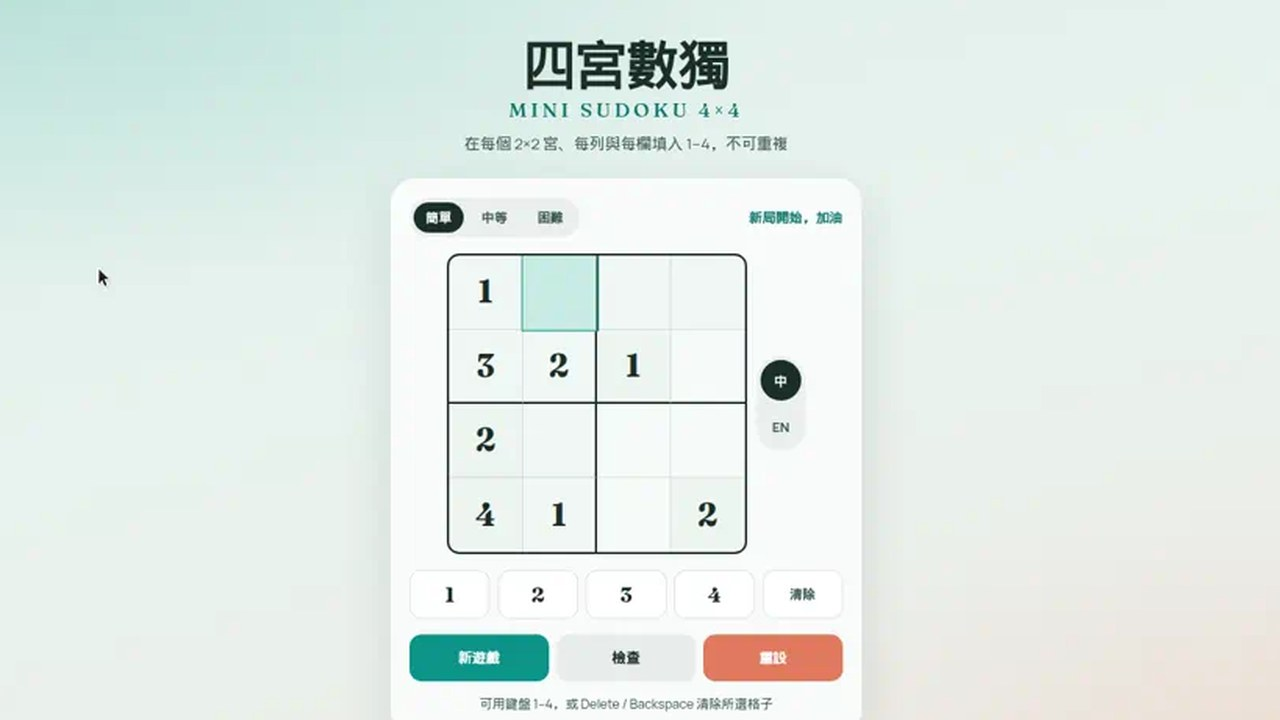
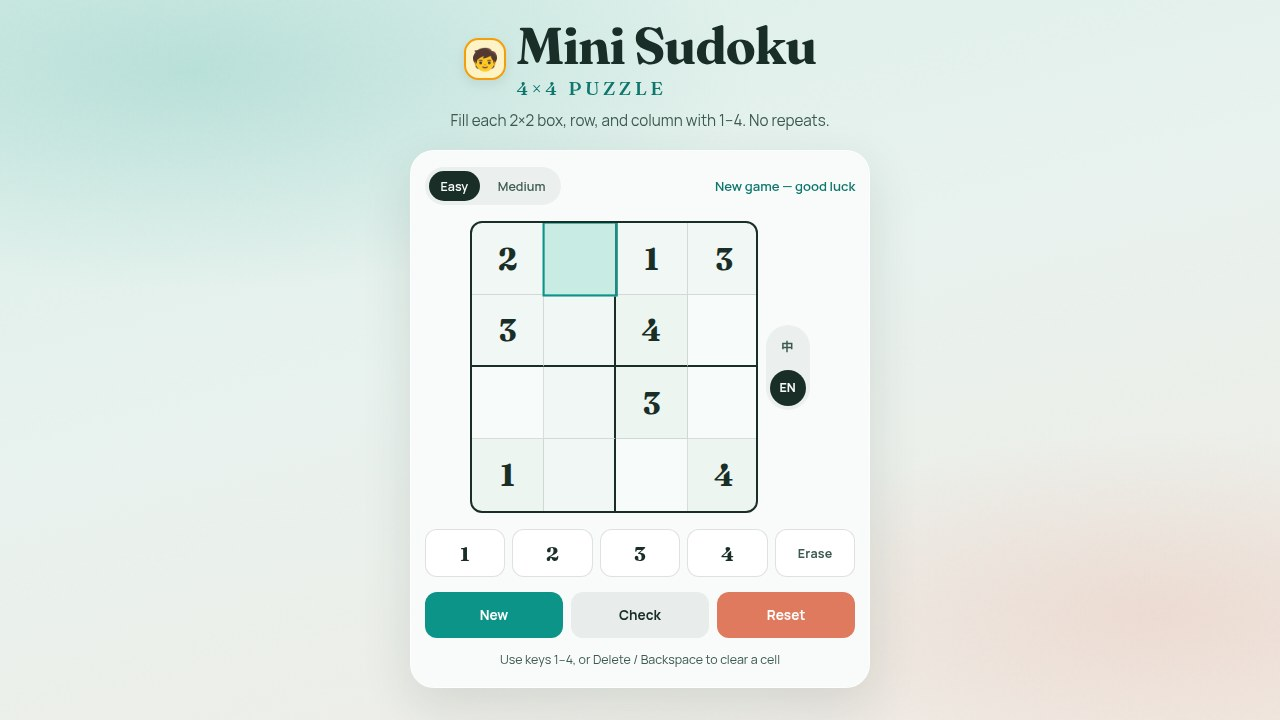
Default Mini Sudoku to English and refresh the hub thumbnail.
New players see English UI first, and the hub card image now matches the English game screen.

Changed region(s): [[0.2812, 0.0306, 0.6875, 1.0], [0.5, 0.4278, 0.5312, 0.4889], [0.0625, 0.3667, 0.0938, 0.3972]]

diff --git a/mini_sudoku/index.html b/mini_sudoku/index.html
@@ -1,9 +1,9 @@
 <!DOCTYPE html>
-<html lang="zh-Hant">
+<html lang="en">
 <head>
   <meta charset="UTF-8" />
   <meta name="viewport" content="width=device-width, initial-scale=1.0" />
-  <title>四宮數獨 · Mini Sudoku</title>
+  <title>Mini Sudoku</title>
   <link rel="preconnect" href="https://fonts.googleapis.com" />
   <link rel="preconnect" href="https://fonts.gstatic.com" crossorigin />
   <link href="https://fonts.googleapis.com/css2?family=Fraunces:opsz,wght@9..144,500;9..144,700&family=Manrope:wght@400;500;600;700&display=swap" rel="stylesheet" />
@@ -543,25 +543,25 @@
     <header>
       <div class="title-row">
         <a class="hub-home" href="../index.html" title="Back to Teaching Games" aria-label="Back to Teaching Games">🧒</a>
-        <h1 class="brand"><span id="brand-title">四宮數獨</span><span class="brand-sub" id="brand-sub">Mini Sudoku 4×4</span></h1>
+        <h1 class="brand"><span id="brand-title">Mini Sudoku</span><span class="brand-sub" id="brand-sub">4×4 Puzzle</span></h1>
       </div>
-      <p class="tagline" id="tagline">在每個 2×2 宮、每列與每欄填入 1–4，不可重複</p>
+      <p class="tagline" id="tagline">Fill each 2×2 box, row, and column with 1–4. No repeats.</p>
     </header>
 
     <div class="panel" id="panel">
       <div class="toolbar">
-        <div class="difficulty" id="difficulty" role="group" aria-label="難度">
-          <button type="button" data-diff="easy" class="active">簡單</button>
-          <button type="button" data-diff="medium">中等</button>
+        <div class="difficulty" id="difficulty" role="group" aria-label="Difficulty">
+          <button type="button" data-diff="easy" class="active">Easy</button>
+          <button type="button" data-diff="medium">Medium</button>
         </div>
-        <div class="status" id="status" aria-live="polite">選格開始</div>
+        <div class="status" id="status" aria-live="polite">Pick a cell</div>
       </div>
 
       <div class="board-wrap">
-        <div class="board" id="board" role="grid" aria-label="4×4 數獨棋盤"></div>
-        <div class="lang-switch" id="lang-switch" role="group" aria-label="語言">
-          <button type="button" data-lang="zh" class="active" aria-pressed="true">中</button>
-          <button type="button" data-lang="en" aria-pressed="false">EN</button>
+        <div class="board" id="board" role="grid" aria-label="4×4 Sudoku board"></div>
+        <div class="lang-switch" id="lang-switch" role="group" aria-label="Language">
+          <button type="button" data-lang="zh" aria-pressed="false">中</button>
+          <button type="button" data-lang="en" class="active" aria-pressed="true">EN</button>
         </div>
       </div>
 
@@ -570,22 +570,22 @@
         <button type="button" data-num="2">2</button>
         <button type="button" data-num="3">3</button>
         <button type="button" data-num="4">4</button>
-        <button type="button" class="erase" data-num="0" id="btn-erase">清除</button>
+        <button type="button" class="erase" data-num="0" id="btn-erase">Erase</button>
       </div>
 
       <div class="actions">
-        <button type="button" class="btn-primary" id="btn-new">新遊戲</button>
-        <button type="button" class="btn-ghost" id="btn-check">檢查</button>
-        <button type="button" class="btn-accent" id="btn-reset">重設</button>
+        <button type="button" class="btn-primary" id="btn-new">New</button>
+        <button type="button" class="btn-ghost" id="btn-check">Check</button>
+        <button type="button" class="btn-accent" id="btn-reset">Reset</button>
       </div>
 
-      <p class="hint" id="hint">可用鍵盤 1–4，或 Delete / Backspace 清除所選格子</p>
+      <p class="hint" id="hint">Use keys 1–4, or Delete / Backspace to clear a cell</p>
 
       <div class="win-overlay" id="win">
         <div class="win-card">
-          <h2 id="win-title">過關了</h2>
-          <p id="win-body">這盤數獨解開了</p>
-          <button type="button" class="btn-primary" id="btn-again" style="padding: 0 1.4rem; height: 44px; border-radius: 12px;">再來一局</button>
+          <h2 id="win-title">You win</h2>
+          <p id="win-body">This puzzle is solved</p>
+          <button type="button" class="btn-primary" id="btn-again" style="padding: 0 1.4rem; height: 44px; border-radius: 12px;">Play again</button>
         </div>
       </div>
     </div>
@@ -669,7 +669,7 @@
     let selected = 0;
     let difficulty = "easy";
     let won = false;
-    let lang = localStorage.getItem("sudoku-lang") === "en" ? "en" : "zh";
+    let lang = localStorage.getItem("sudoku-lang") === "zh" ? "zh" : "en";
     let lastStatus = { key: "startHint", kind: "", args: [] };
 
     function t(key, ...args) {

diff --git a/index.html b/index.html
@@ -255,7 +255,7 @@
   </style>
 </head>
 <body>
-  <p class="hub-updated">Updated 20 Sep 2026, 12:53</p>
+  <p class="hub-updated">Updated 20 Sep 2026, 14:44</p>
   <div class="wrap">
     <header>
       <h1>Teaching Games</h1>
